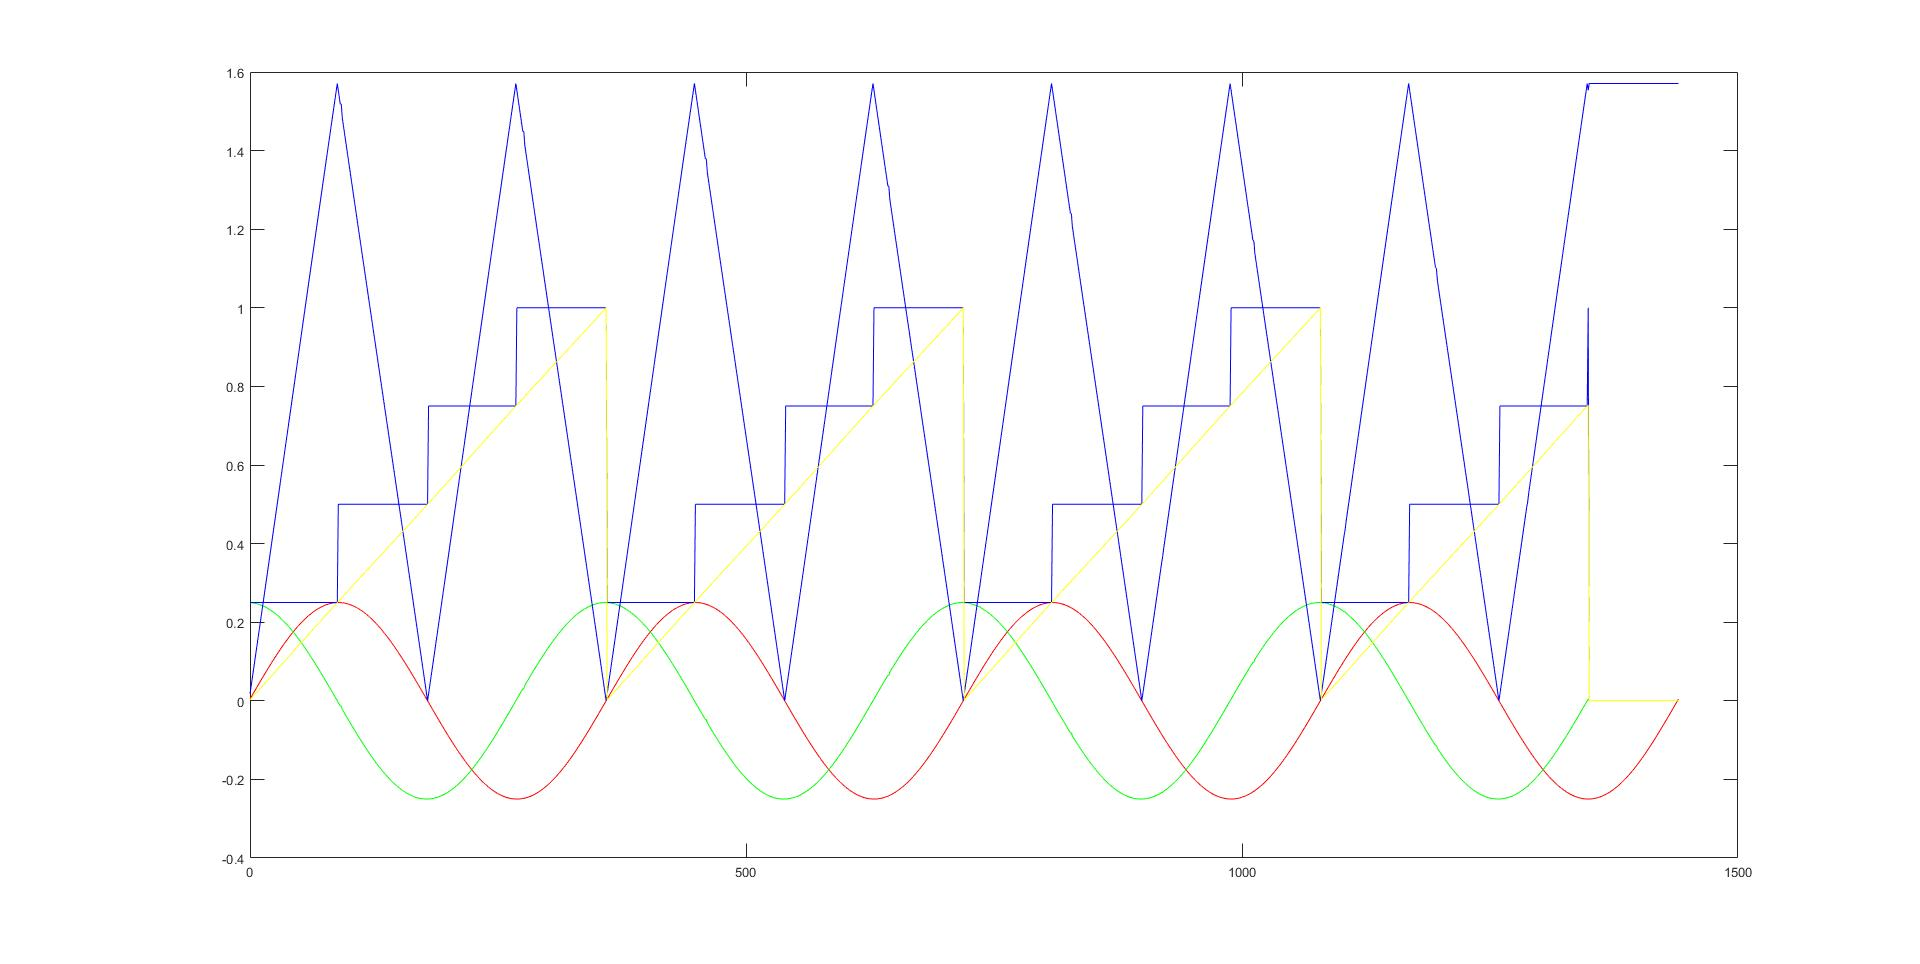
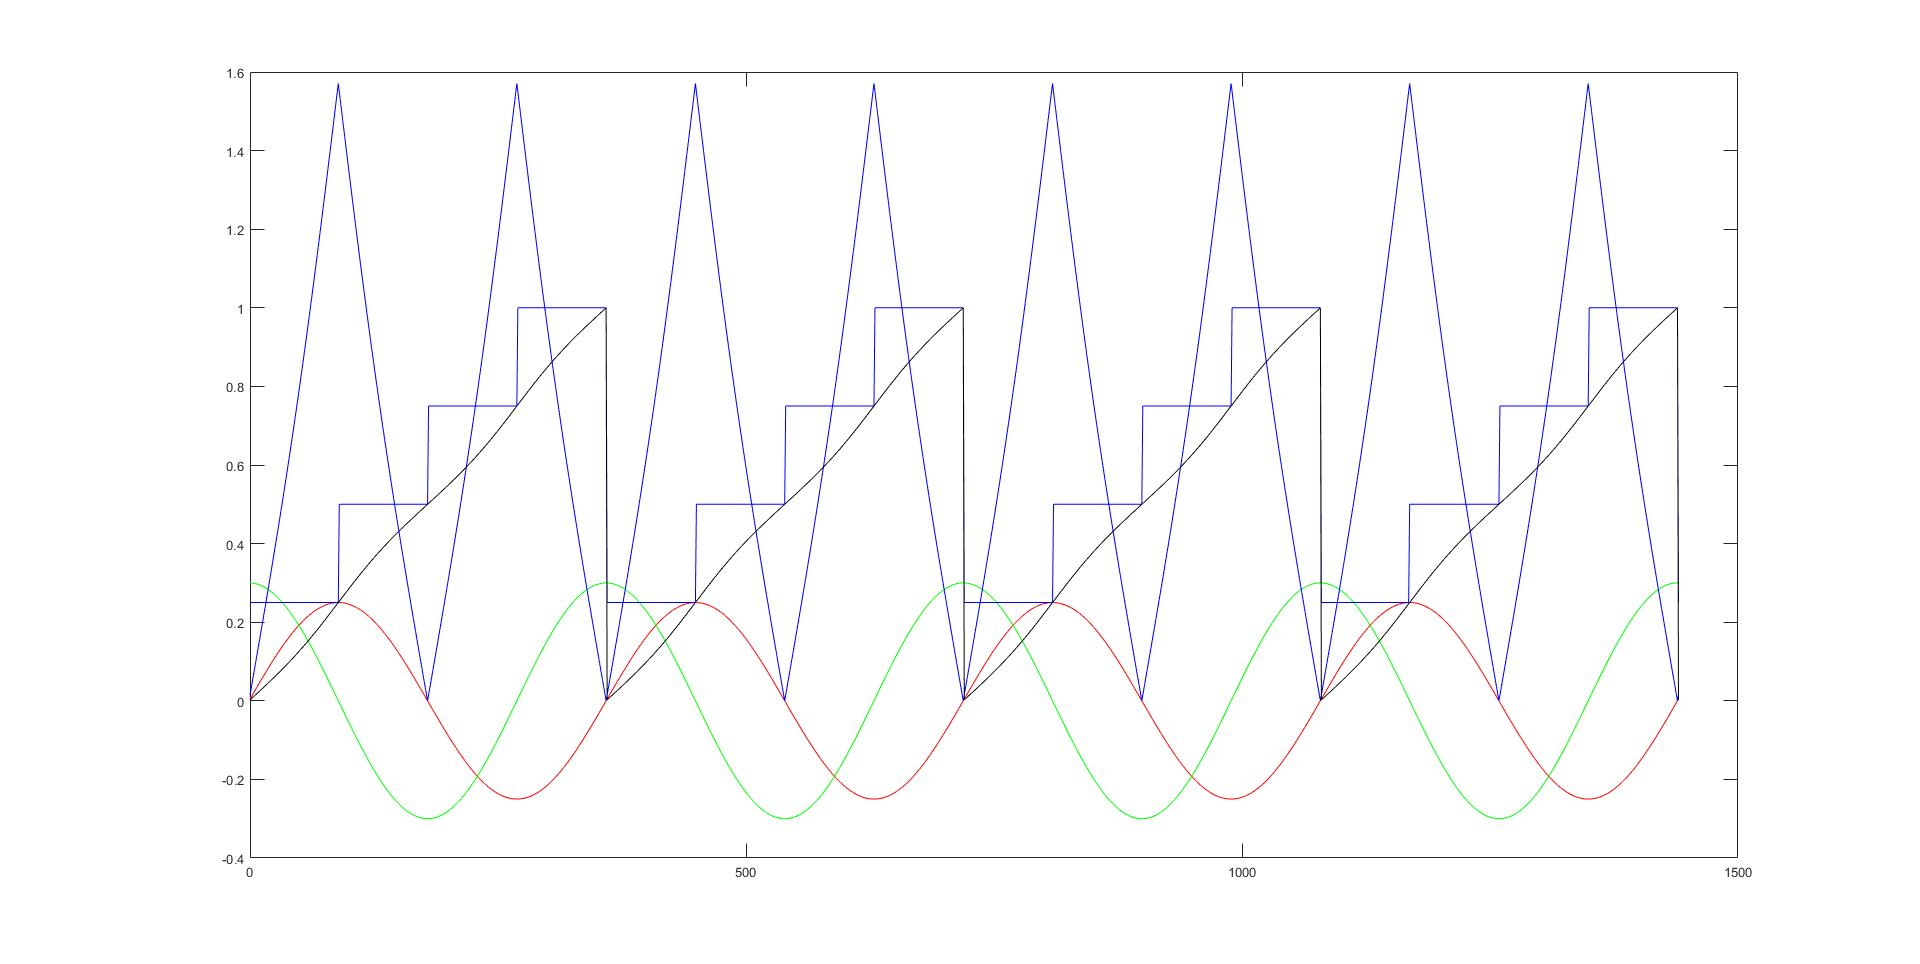
update

diff --git a/src/Work/sin_cos_encoder/sin_cos_encoder_base.m b/src/Work/sin_cos_encoder/sin_cos_encoder_base.m
@@ -29,7 +29,7 @@ for i=1:N
         n = 1;
     end
     
-    if first_run == 0
+    if first_run == 0 && 0
         if n > 1
             vb(m) = buffer(n-1);
         else
@@ -39,7 +39,7 @@ for i=1:N
         m=m+1;
     end
     
-    %vb(m) = k*cos(i/180*pi);
+    vb(i) = 1.2*k*cos(i/180*pi);
 end
 
 sector = zeros(size(theta));
@@ -97,4 +97,4 @@ hold on;
 plot(theta, sector/4,'Color','blue');
 
 hold on;
-plot(theta, angle360,'Color','yellow');
+plot(theta, angle360,'Color','black');
